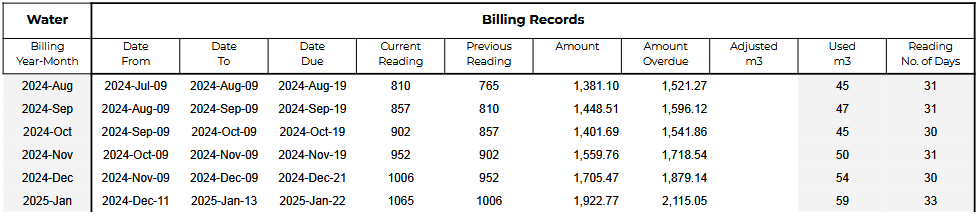
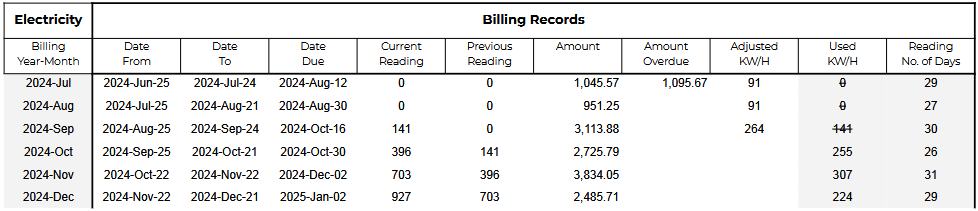
update sharedexpenses details.md

diff --git a/public/projects/office/sharedexpenses/details.md b/public/projects/office/sharedexpenses/details.md
@@ -63,6 +63,17 @@ Configures all the relevant data for a particular tenant/household/individual.
   Where you set the amount if <b>Fixed</b> sharing type is used. <br/>
   This is also where the Equal Sharing computation are displayed. <br/>
   ![Non-Metered](https://raw.githubusercontent.com/nivranaitsirhc/kartera-data/refs/heads/master/public/projects/office/sharedexpenses/details/non-metered.png)<br/>
+  <strong>How does it work?</strong> <br/>
+    - <strong>Fixed</strong> <br/> 
+    Fixed will use the value defined in ``(Fixed) Amount``. <br/>
+    - <strong>Equal Share</strong> <br/> 
+    Equal Share will use the value defined in ``(Equal Share) Individual Amount``. <br/>
+    This value is computed from getting the total amount of non-sharing types and dividing this value the total sharing types. <br/>
+    <b>Example:</b> <br/>
+    For the billing period of ``2024-Dec`` we have a total bill amount of ``2485.71``, ``1`` total of no. of Sharing Type, <br/> ``1`` total no. of Non-Sharing Type, and a total amount of ``700`` for the Non-Sharing Type. <br/>
+    Subtracting the total bill amount by the total amount of the non-sharing we get ``1785.71 = 2485.71 - 700`` to be shared equally by the sharing types. <br/>
+    Dividing this ``1785.71`` to the no. sharing type, we can get the individual share amount of ``1785.71 = 1785.71 / 1``. <br/>
+    <em>Note: Since we only have two tenant/household/individuals in this example the sole sharing individual will get the difference from the Fixed individual. </em> <br/>
 
   * <strong>Option - Metered (Sub-Meter)</strong> <br/>
   This is where you set the relevant data if you are using the Sub-Meter Sharing Type. <br/>
@@ -79,10 +90,15 @@ Configures all the relevant data for a particular tenant/household/individual.
   * <strong>Sub Meter Adjustment</strong> <br/>
   Where the sub-meter is re-calculated and adjusted to match the actual sub-meter reading. <br/>
   This part will be populated when <strong>Aligned</strong> is set to <strong>No</strong> and all the relevant data is present in <strong>Option - Metered (Sub-Meter)</strong> <br/>
-  ![Sub-Meter Adjustment](https://raw.githubusercontent.com/nivranaitsirhc/kartera-data/refs/heads/master/public/projects/office/sharedexpenses/details/sub-meter-adjustment.png)<br/>
+  ![Sub-Meter Adjustment](https://raw.githubusercontent.com/nivranaitsirhc/kartera-data/refs/heads/master/public/projects/office/sharedexpenses/details/sub-meter-adjustment.png)![Metered](https://raw.githubusercontent.com/nivranaitsirhc/kartera-data/refs/heads/master/public/projects/office/sharedexpenses/details/metered.png) <br/>
   <strong>How does it work?</strong> <br/>
     1. It works by getting the daily avarage consumption from the available used ```KW/H``` or <code>m<sup>3</sup></code> data from <strong>Option - Metered (Sub-Meter)</strong>. <br/>
     2. Once a daily average is available, multiply it to the total reading days of the billing period. <br/>
+    <b>Example:</b> <br/>
+    For billing period ``2024-Dec`` we have a ``29 days`` of reading period, and a sub-meter reading of ``141 KW/H`` with ``31 days`` of reading period. <br/>
+    Dividing ```141``` by ```31 days``` we get an average of ```4.55 KW/H``` daily consumption for the sub-meter. <br/>
+    Multiplying ```4.55 KW/H per Day``` to the no. reading period of  ```29 days```, our new adjusted KW/H will be ```131.95 KW/H = 4.55 KW/H/days x 29 days```. <br/>
+    In summary we adjusted the ```31 days``` of ```141 KW/H``` to ```29 days``` with ```131.95 KW/H``` to match the ```29 days``` reading period of the main meter. <br/>
     - <em>Note: To get an accurate average, the reading dates must be not less than 50% of the reading days and must atleast be near the billing period of the main meter.</em> <br/>
 
 - **Sub-Meter Reading Sheet** <br/>
